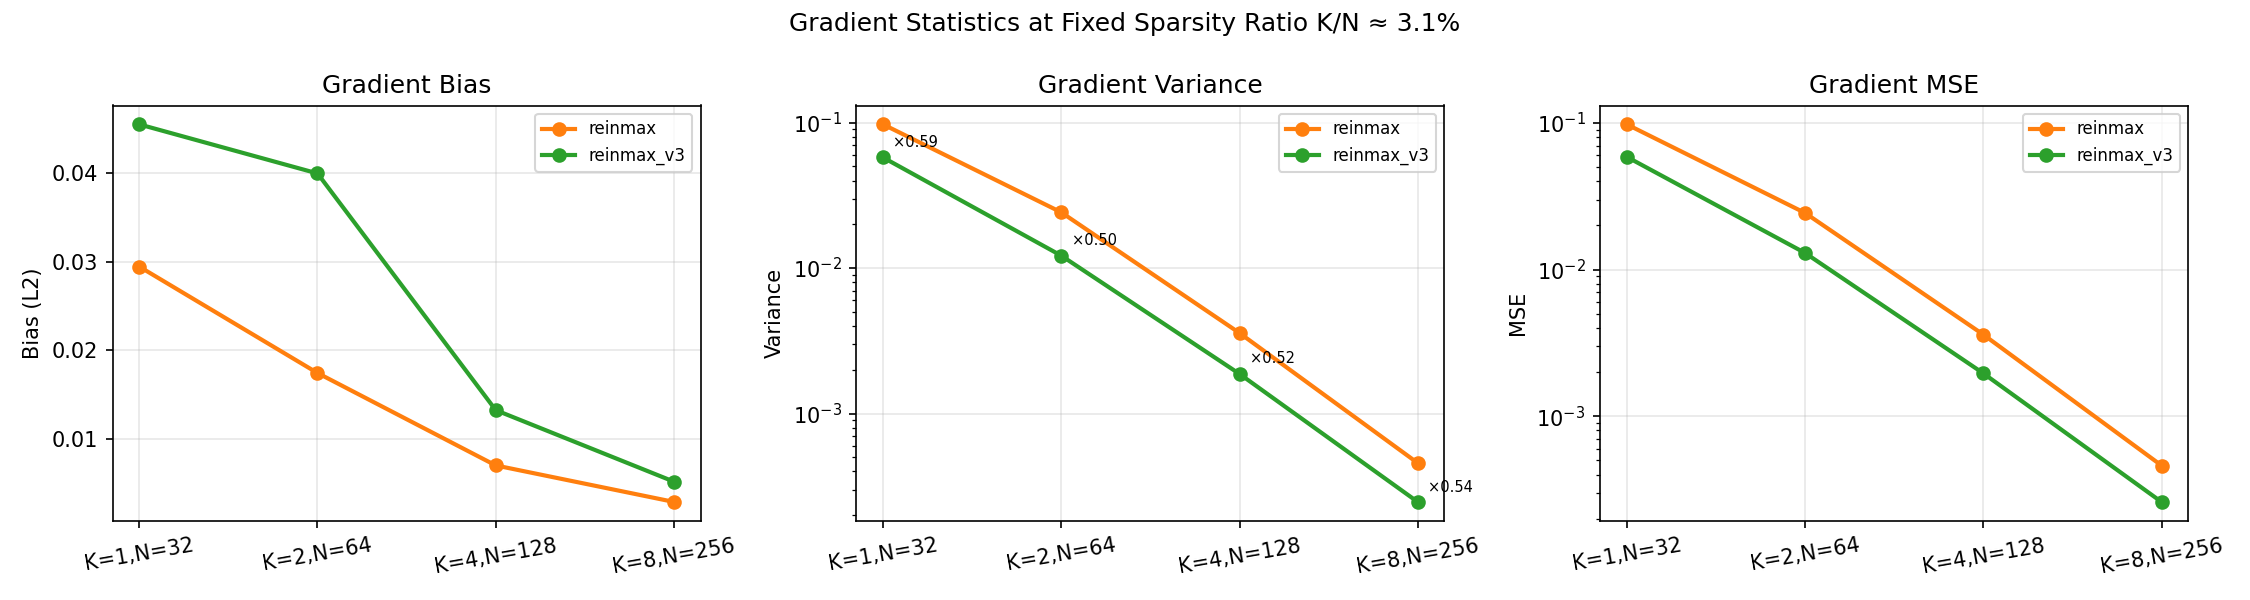
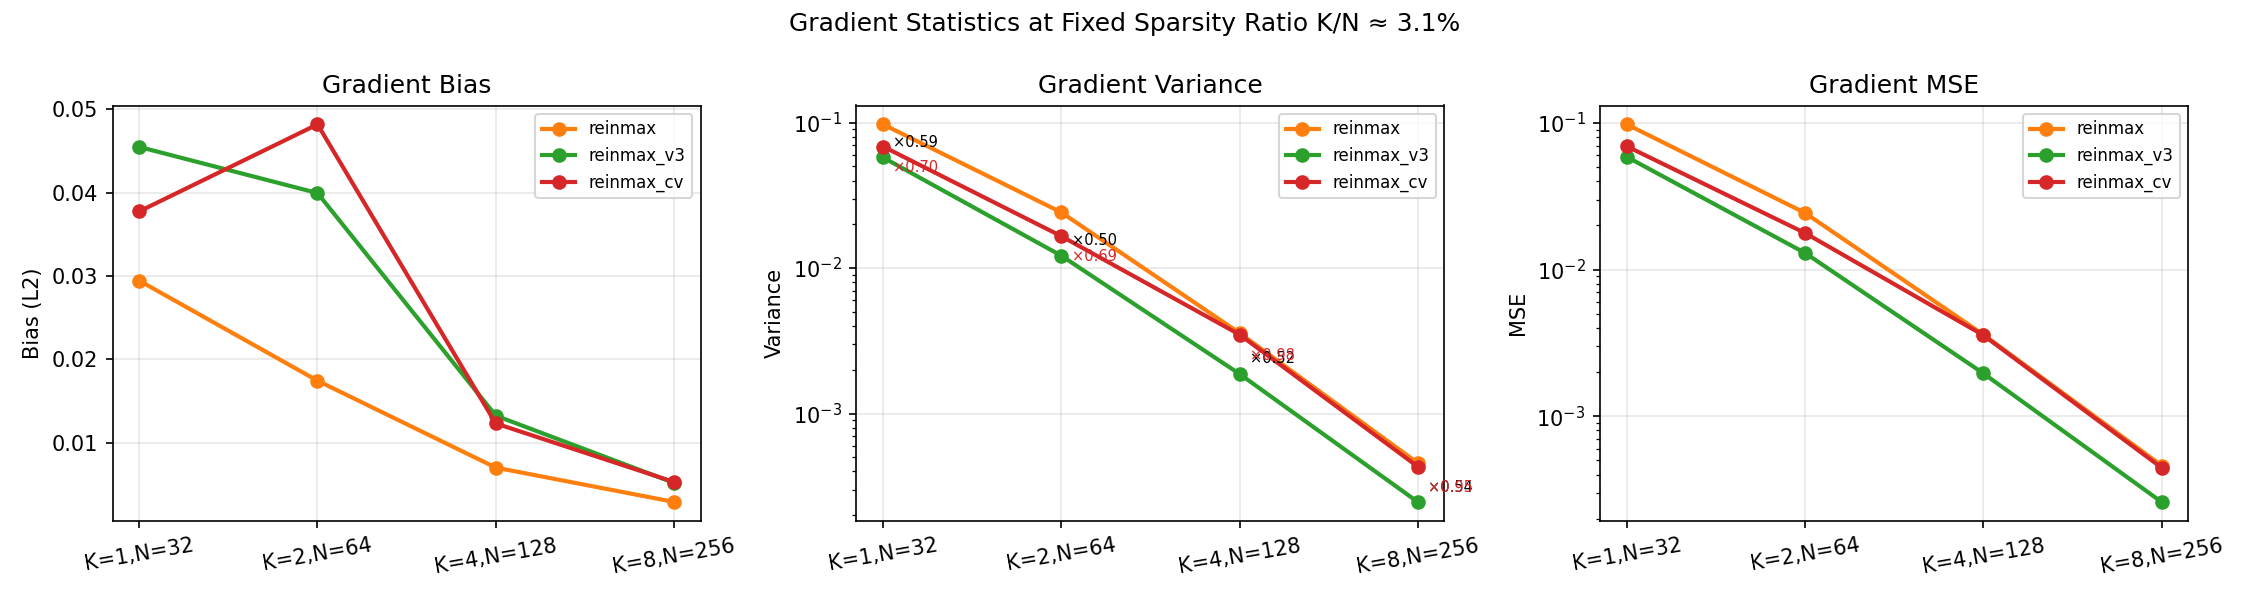
Add reinmax_cv to sparse routing experiments (Exp 13a-d)
Includes reinmax_cv (η=0.9, same R as reinmax_v3) in all four
sub-experiments: fixed-sparsity scaling, head-to-head at N=256 K=8,
convergence race, and K ablation.

Key findings:
- K=1 (N=32): cv/rm=0.704 vs v3/rm=0.592 — both beat reinmax, v3 better
- K=2 (N=64): cv/rm=0.686 vs v3/rm=0.504 — v3 wins, cv still helps
- K=4 (N=128): cv/rm=0.976 vs v3/rm=0.523 — CV barely helps vs reinmax
- K=8 (N=256): cv/rm=0.945 vs v3/rm=0.540 — CV slightly helps, v3 much better

Pattern: CV benefit degrades with K because the 1-sample top-K Jacobian
(used as the base) accumulates variance across K decomposed single-expert
calls, giving a high-variance base for the interpolation.  ReinMax-v3
consistently reduces variance by ~40-50% regardless of K.

https://claude.ai/code/session_01EXYmFMXa5c3eeeVndQyr6K

diff --git a/sparse_mixer/exp_sparse_routing.py b/sparse_mixer/exp_sparse_routing.py
@@ -63,8 +63,8 @@ import matplotlib.pyplot as plt
 sys.path.insert(0, os.path.dirname(os.path.dirname(os.path.abspath(__file__))))
 
 from sparse_mixer.estimators import (
-    st_single, reinmax_single, reinmax_v3_single,
-    reinmax_topk, reinmax_v3_topk,
+    st_single, reinmax_single, reinmax_v3_single, reinmax_cv_single,
+    reinmax_topk, reinmax_v3_topk, reinmax_cv_topk,
 )
 from sparse_mixer.objectives import QuadraticObjective
 from sparse_mixer.metrics    import collect_grad_samples, bias_variance_metrics
@@ -145,7 +145,7 @@ def run_fixed_sparsity_scaling(
 
     results = {
         name: dict(bias=[], variance=[], mse=[])
-        for name in ['reinmax', 'reinmax_v3']
+        for name in ['reinmax', 'reinmax_v3', 'reinmax_cv']
     }
     scale_labels = []
 
@@ -165,6 +165,7 @@ def run_fixed_sparsity_scaling(
             method_fns = {
                 'reinmax'    : lambda l, k_=k: reinmax_single(l, tau),
                 'reinmax_v3' : lambda l, k_=k: reinmax_v3_single(l, tau, repeats),
+                'reinmax_cv' : lambda l, k_=k, r_=repeats: reinmax_cv_single(l, tau, eta=0.9, repeats=r_),
             }
             ref = exact
         else:
@@ -175,6 +176,7 @@ def run_fixed_sparsity_scaling(
             method_fns = {
                 'reinmax'    : lambda l, k_=k: reinmax_topk(l, k=k_, tau=tau),
                 'reinmax_v3' : lambda l, k_=k: reinmax_v3_topk(l, k=k_, tau=tau, repeats=repeats),
+                'reinmax_cv' : lambda l, k_=k, r_=repeats: reinmax_cv_topk(l, k=k_, tau=tau, eta=0.9, repeats=r_),
             }
 
         for name, fn in method_fns.items():
@@ -219,13 +221,16 @@ def plot_fixed_sparsity_scaling(results, scale_labels, save_dir=SPARSE_DIR):
         ax.set_ylabel(ylabel); ax.set_title(title); ax.set_yscale(yscale)
         ax.legend(fontsize=8); ax.grid(True, alpha=0.3)
 
-    # Add variance-ratio annotation
+    # Add variance-ratio annotations (v3/rm and cv/rm)
     for j, label in enumerate(scale_labels):
         v_rm = results['reinmax']['variance'][j]
         v_v3 = results['reinmax_v3']['variance'][j]
-        ratio = v_v3 / (v_rm + 1e-12)
-        axes[1].annotate(f'×{ratio:.2f}', xy=(j, v_v3),
-                         xytext=(5, 5), textcoords='offset points', fontsize=7)
+        v_cv = results['reinmax_cv']['variance'][j]
+        axes[1].annotate(f'×{v_v3/(v_rm+1e-12):.2f}', xy=(j, v_v3),
+                         xytext=(5,  5), textcoords='offset points', fontsize=7)
+        axes[1].annotate(f'×{v_cv/(v_rm+1e-12):.2f}', xy=(j, v_cv),
+                         xytext=(5, -12), textcoords='offset points', fontsize=7,
+                         color=COLOURS.get('reinmax_cv', '#888'))
 
     plt.suptitle('Gradient Statistics at Fixed Sparsity Ratio K/N ≈ 3.1%', fontsize=12)
     save_fig(os.path.join(save_dir, 'fixed_sparsity_scaling.png'))
@@ -267,6 +272,7 @@ def run_large_scale_variance(
     methods = {
         'reinmax'    : lambda l: reinmax_topk(l, k=k, tau=tau),
         'reinmax_v3' : lambda l: reinmax_v3_topk(l, k=k, tau=tau, repeats=repeats),
+        'reinmax_cv' : lambda l: reinmax_cv_topk(l, k=k, tau=tau, eta=0.9, repeats=repeats),
     }
 
     results = {}
@@ -282,8 +288,11 @@ def run_large_scale_variance(
 
     v_rm = results['reinmax']['variance']
     v_v3 = results['reinmax_v3']['variance']
+    v_cv = results['reinmax_cv']['variance']
     print(f"\n  Variance ratio (v3/reinmax): {v_v3/(v_rm+1e-12):.3f}  "
           f"({'↓' if v_v3 < v_rm else '↑'} variance)")
+    print(f"  Variance ratio (cv/reinmax): {v_cv/(v_rm+1e-12):.3f}  "
+          f"({'↓' if v_cv < v_rm else '↑'} variance)")
     return results
 
 
@@ -312,8 +321,10 @@ def plot_large_scale_variance(results, n_experts, k, save_dir=SPARSE_DIR):
     # Add variance-reduction annotation
     v_rm = results['reinmax']['variance']
     v_v3 = results['reinmax_v3']['variance']
-    ratio = v_v3 / (v_rm + 1e-12)
-    axes[1].set_title(f'Gradient Variance  (v3/rm = {ratio:.2f})')
+    v_cv = results['reinmax_cv']['variance']
+    axes[1].set_title(
+        f'Gradient Variance  (v3/rm={v_v3/(v_rm+1e-12):.2f}  cv/rm={v_cv/(v_rm+1e-12):.2f})'
+    )
 
     plt.suptitle(f'Head-to-Head at N={n_experts}, K={k}  '
                  f'(Very Sparse: K/N = {k/n_experts:.1%})', fontsize=12)
@@ -359,6 +370,7 @@ def run_convergence_at_scale(
     methods = {
         'reinmax'    : lambda l: reinmax_topk(l, k=k, tau=tau),
         'reinmax_v3' : lambda l: reinmax_v3_topk(l, k=k, tau=tau, repeats=repeats),
+        'reinmax_cv' : lambda l: reinmax_cv_topk(l, k=k, tau=tau, eta=0.9, repeats=repeats),
     }
 
     history = {}
@@ -501,6 +513,8 @@ def run_k_ablation(
             ('reinmax',     lambda l, k_=k: reinmax_topk(l, k=k_, tau=tau)),
             ('reinmax_v3',  lambda l, k_=k, r_=repeats:
                             reinmax_v3_topk(l, k=k_, tau=tau, repeats=r_)),
+            ('reinmax_cv',  lambda l, k_=k, r_=repeats:
+                            reinmax_cv_topk(l, k=k_, tau=tau, eta=0.9, repeats=r_)),
         ]:
             t0 = time.time()
             grads = collect_grad_samples(fn, logits, topk_obj, n_samples)
@@ -512,7 +526,9 @@ def run_k_ablation(
 
         v_rm = var_results[k]['reinmax']['variance']
         v_v3 = var_results[k]['reinmax_v3']['variance']
-        print(f"    variance ratio v3/rm: {v_v3/(v_rm+1e-12):.3f}")
+        v_cv = var_results[k]['reinmax_cv']['variance']
+        print(f"    variance ratio v3/rm: {v_v3/(v_rm+1e-12):.3f}  "
+              f"cv/rm: {v_cv/(v_rm+1e-12):.3f}")
 
     # ── Part 2: convergence curves ────────────────────────────────────────────
     print(f"\n  Convergence at each K ({n_steps_conv} steps, lr={lr_conv}):")
@@ -555,7 +571,7 @@ def plot_k_ablation(var_results, conv_history, random_ef_global,
 
     # ── Panel 1: Gradient Variance vs K ──────────────────────────────────────
     ax = axes[0]
-    for name in ['reinmax', 'reinmax_v3']:
+    for name in ['reinmax', 'reinmax_v3', 'reinmax_cv']:
         vars_ = [var_results[k][name]['variance'] for k in k_values]
         ax.plot(k_values, vars_, color=COLOURS.get(name, '#888'),
                 label=name, lw=2, marker='o', ms=6)
@@ -564,14 +580,16 @@ def plot_k_ablation(var_results, conv_history, random_ef_global,
     ax.set_yscale('log'); ax.set_xscale('log', base=2)
     ax.set_xticks(k_values); ax.set_xticklabels(k_values)
     ax.legend(fontsize=9); ax.grid(True, alpha=0.3, which='both')
-    # Annotate variance-reduction ratio
+    # Annotate variance-reduction ratios (v3/rm and cv/rm)
     for k in k_values:
         v_rm = var_results[k]['reinmax']['variance']
         v_v3 = var_results[k]['reinmax_v3']['variance']
-        ratio = v_v3 / (v_rm + 1e-12)
-        x_pos = k_values.index(k)
-        ax.annotate(f'×{ratio:.2f}', xy=(k, v_v3),
-                    xytext=(4, 4), textcoords='offset points', fontsize=7)
+        v_cv = var_results[k]['reinmax_cv']['variance']
+        ax.annotate(f'×{v_v3/(v_rm+1e-12):.2f}', xy=(k, v_v3),
+                    xytext=(4,  4), textcoords='offset points', fontsize=7)
+        ax.annotate(f'×{v_cv/(v_rm+1e-12):.2f}', xy=(k, v_cv),
+                    xytext=(4, -12), textcoords='offset points', fontsize=7,
+                    color=COLOURS.get('reinmax_cv', '#888'))
 
     # ── Panel 2: E[f(z)] convergence ─────────────────────────────────────────
     ax = axes[1]
@@ -633,13 +651,18 @@ def main(fast: bool = False):
     }
     v_rm_list = r13a['reinmax']['variance']
     v_v3_list = r13a['reinmax_v3']['variance']
-    ratios = [v3 / (rm + 1e-12) for v3, rm in zip(v_v3_list, v_rm_list)]
-    summary['fixed_sparsity']['variance_ratios'] = {
-        lbl: ratio for lbl, ratio in zip(scale_labels, ratios)
+    v_cv_list = r13a['reinmax_cv']['variance']
+    ratios_v3 = [v3 / (rm + 1e-12) for v3, rm in zip(v_v3_list, v_rm_list)]
+    ratios_cv = [cv / (rm + 1e-12) for cv, rm in zip(v_cv_list, v_rm_list)]
+    summary['fixed_sparsity']['variance_ratios_v3'] = {
+        lbl: ratio for lbl, ratio in zip(scale_labels, ratios_v3)
     }
-    print(f"\n  Variance ratios (v3/reinmax) across scales:")
-    for lbl, ratio in zip(scale_labels, ratios):
-        print(f"    {lbl:14s}: {ratio:.3f}")
+    summary['fixed_sparsity']['variance_ratios_cv'] = {
+        lbl: ratio for lbl, ratio in zip(scale_labels, ratios_cv)
+    }
+    print(f"\n  Variance ratios across scales:")
+    for lbl, rv3, rcv in zip(scale_labels, ratios_v3, ratios_cv):
+        print(f"    {lbl:14s}: v3/rm={rv3:.3f}  cv/rm={rcv:.3f}")
 
     # ── Exp 13b ──────────────────────────────────────────────────────────────
     r13b = run_large_scale_variance(
@@ -687,8 +710,10 @@ def main(fast: bool = False):
 
     summary['k_ablation'] = {
         str(k): {
-            'variance_ratio': (r13d_var[k]['reinmax_v3']['variance'] /
-                               (r13d_var[k]['reinmax']['variance'] + 1e-12)),
+            'variance_ratio_v3': (r13d_var[k]['reinmax_v3']['variance'] /
+                                  (r13d_var[k]['reinmax']['variance'] + 1e-12)),
+            'variance_ratio_cv': (r13d_var[k]['reinmax_cv']['variance'] /
+                                  (r13d_var[k]['reinmax']['variance'] + 1e-12)),
             'final_ef':      r13d_conv[k]['ef'][-1],
             'final_overlap': r13d_conv[k]['overlap'][-1],
             'oracle_ef':     r13d_conv[k]['oracle_ef'],
@@ -705,24 +730,26 @@ def main(fast: bool = False):
     print(f"\n{'='*60}")
     print("SPARSE ROUTING SUMMARY  (N=256)")
     print('='*60)
-    print(f"\n13a — Variance ratio (v3/reinmax) at each scale:")
-    for lbl, ratio in zip(scale_labels, ratios):
-        symbol = '↓' if ratio < 1 else '↑'
-        print(f"  {lbl:14s}: {ratio:.3f}  {symbol}")
+    print(f"\n13a — Variance ratios at each scale:")
+    for lbl, rv3, rcv in zip(scale_labels, ratios_v3, ratios_cv):
+        sv3 = '↓' if rv3 < 1 else '↑'
+        scv = '↓' if rcv < 1 else '↑'
+        print(f"  {lbl:14s}: v3/rm={rv3:.3f} {sv3}  cv/rm={rcv:.3f} {scv}")
     print(f"\n13b — At N=256, K=8:")
     for name, m in r13b.items():
         print(f"  {name:14s}: var={m['variance']:.4f}  mse={m['mse']:.4f}")
-    print(f"\n13c — Convergence (reinmax vs reinmax_v3, K=8):")
+    print(f"\n13c — Convergence (K=8):")
     for name, h in r13c.items():
         print(f"  {name:14s}: E[f]={h['ef'][-1]:.4f}  "
               f"overlap={h['overlap'][-1]:.3f}")
     print(f"  oracle          : E[f]={oracle_ef:.4f}")
     print(f"\n13d — K ablation at N=256:")
-    print(f"  {'K':>5}  {'density':>8}  {'v3/rm':>7}  {'final E[f]':>11}  "
-          f"{'overlap':>8}  {'oracle':>7}")
+    print(f"  {'K':>5}  {'density':>8}  {'v3/rm':>7}  {'cv/rm':>7}  "
+          f"{'final E[f]':>11}  {'overlap':>8}  {'oracle':>7}")
     for k in _K_ABLATION_VALUES:
         d = summary['k_ablation'][str(k)]
-        print(f"  {k:>5}  {k/256:>8.1%}  {d['variance_ratio']:>7.3f}  "
+        print(f"  {k:>5}  {k/256:>8.1%}  {d['variance_ratio_v3']:>7.3f}  "
+              f"{d['variance_ratio_cv']:>7.3f}  "
               f"{d['final_ef']:>11.4f}  {d['final_overlap']:>8.3f}  "
               f"{d['oracle_ef']:>7.4f}")
 
